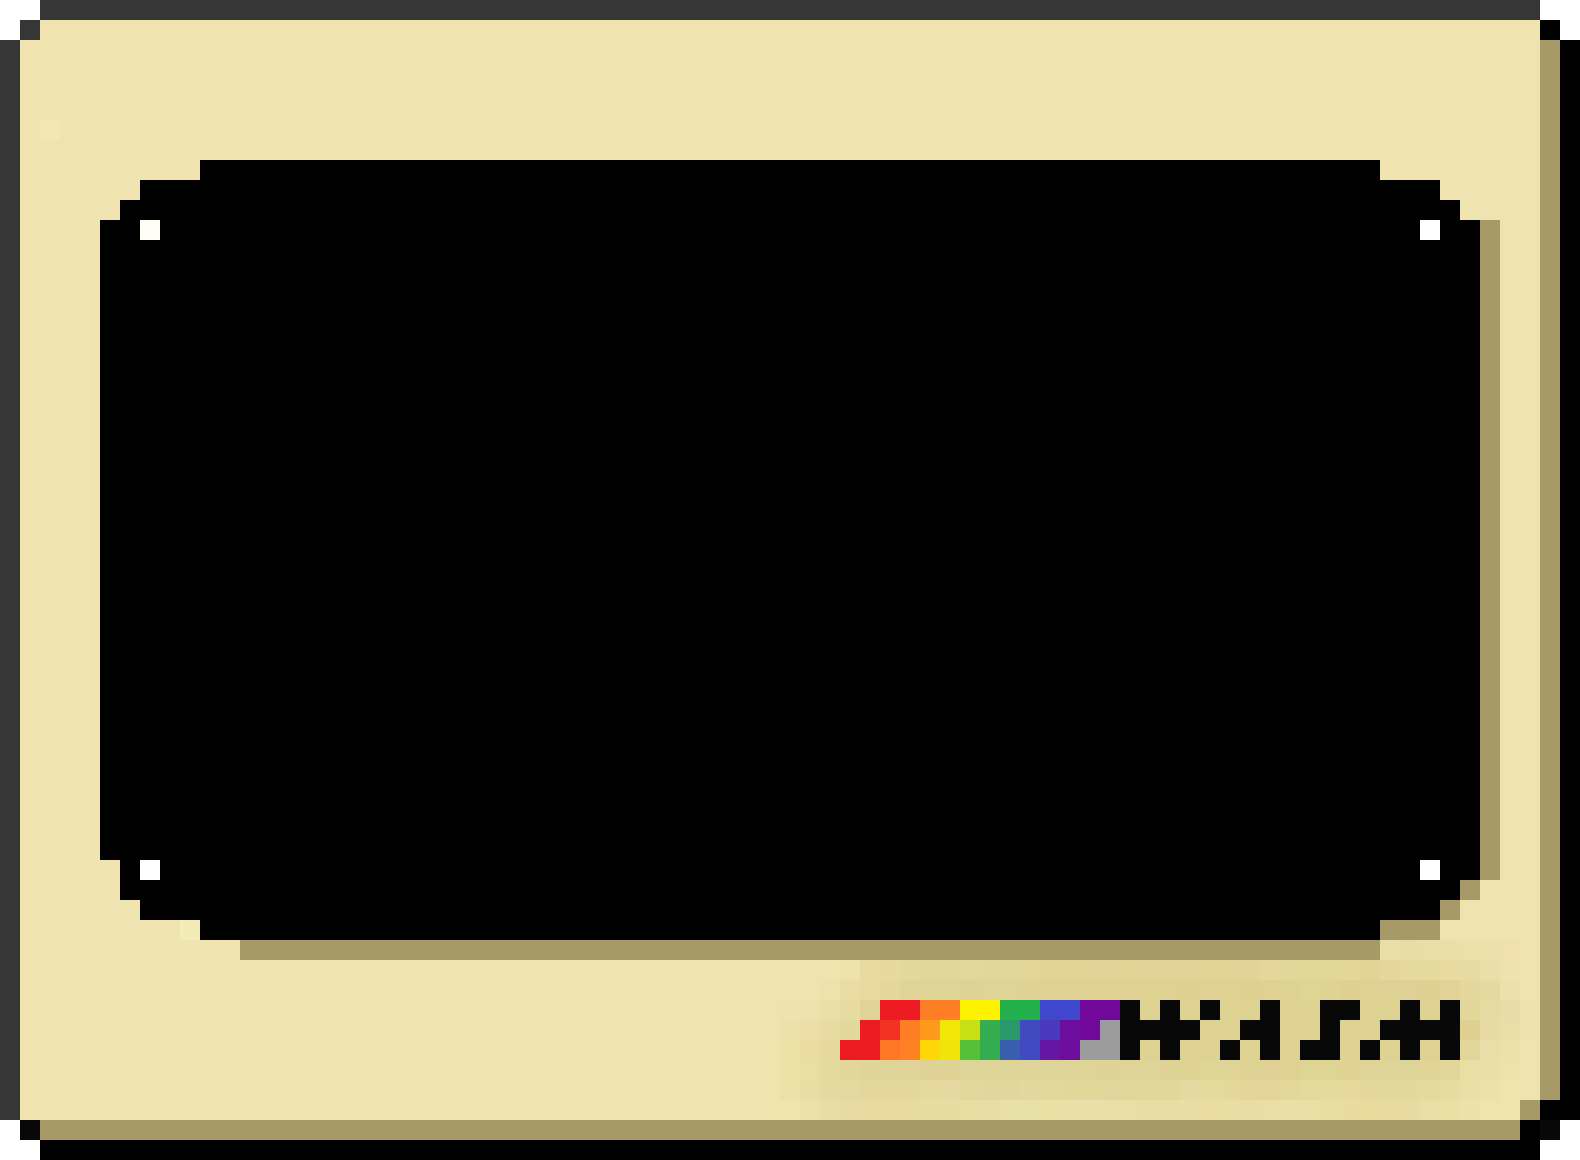
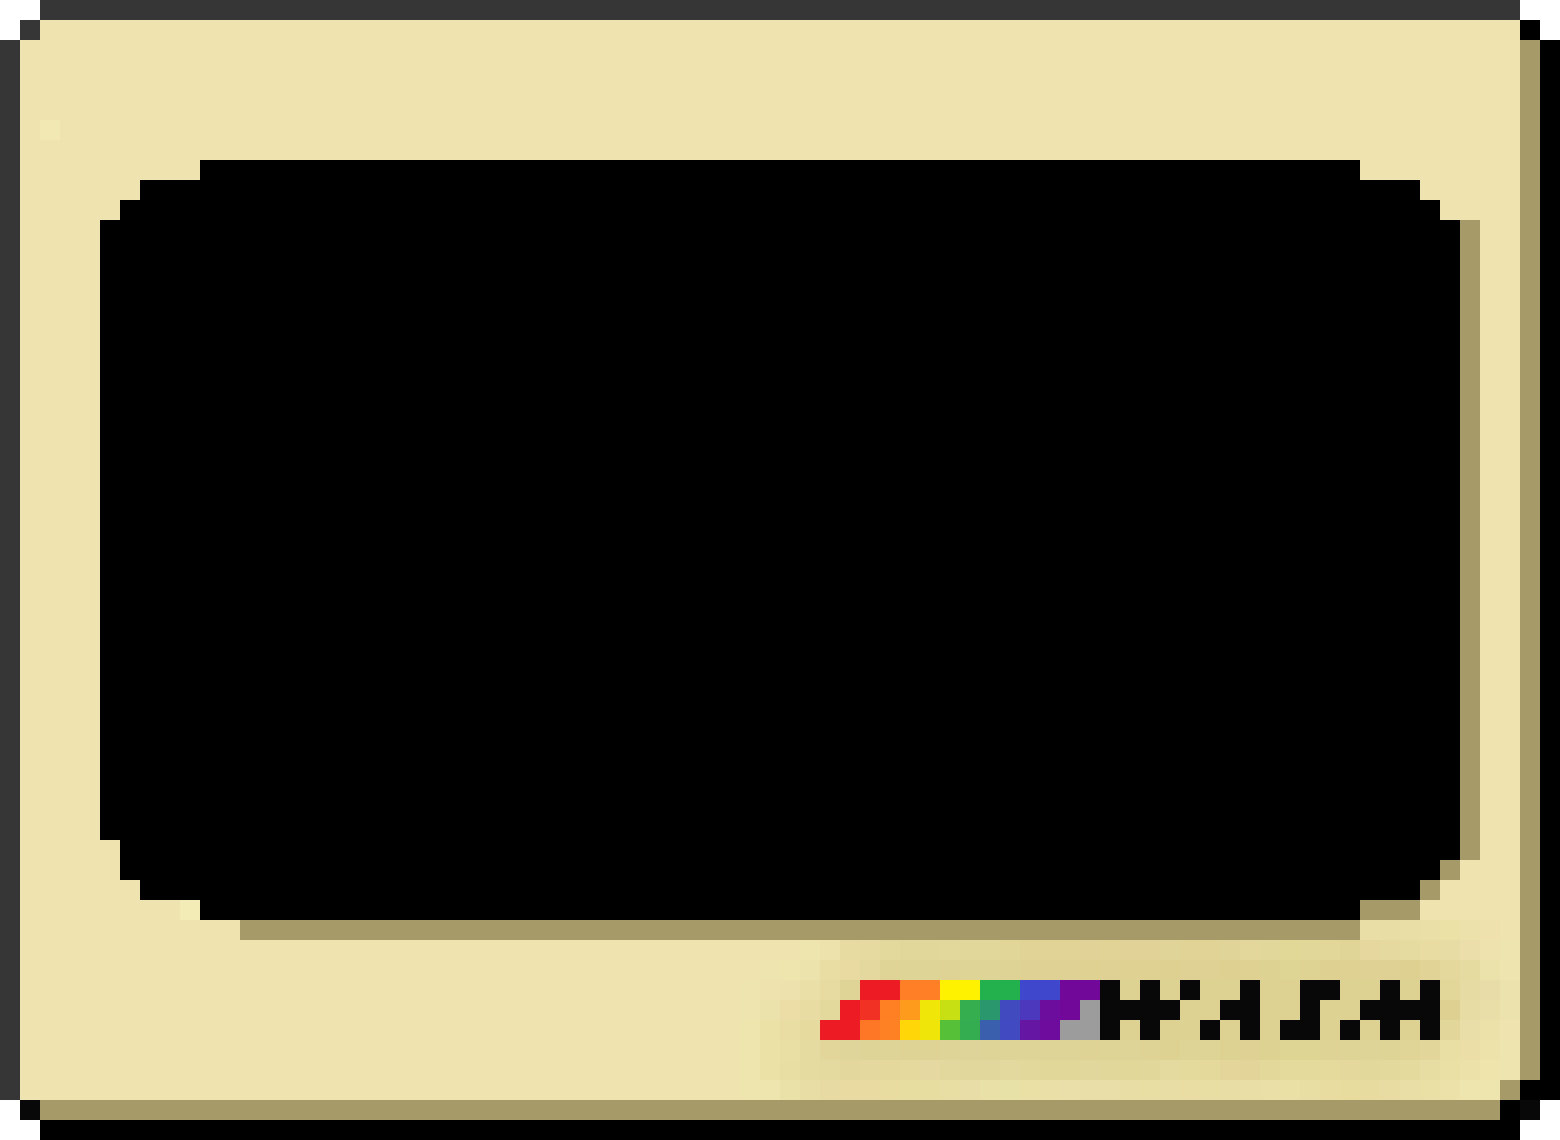
Get CHIP-8 IBM rom working

diff --git a/www/index.js b/www/index.js
@@ -1,13 +1,15 @@
 import { CPU } from "viper";
+import { memory } from "viper/viper_bg";
 
 // define some constants 
-const frameScale = 0.5;         // frame image scaling factor
-const frameRelativeSize = 0.8;  // frame size relative to window
-
+const FRAME_RELATIVE_SIZE = 0.8;  // frame size relative to window
+const PIXEL_SIZE = 20;            // px, size of each screen pixel in the canvas
+const SCREEN_START_X = 7;         // px 
+const SCREEN_START_Y = 11;        // px
 
 // define the canvas
 const canvas = document.getElementById("display-canvas");
-const context = canvas.getContext('2d');
+const ctx = canvas.getContext('2d');
 
 // fetch the image
 const frameImg = new Image();
@@ -16,15 +18,15 @@ frameImg.src = "img/frame.png";
 frameImg.onload = function (e)
 {
     // get frame image size 
-    const frameWidth = frameScale * frameImg.width;
-    const frameHeight = frameScale * frameImg.height;
+    const frameWidth = frameImg.width;
+    const frameHeight = frameImg.height;
 
     // set the internal width and height of canvas
     canvas.width = frameWidth;
     canvas.height = frameHeight;
 
     // scale the canvas element to take up the correct amount of the screen
-    const scale = frameRelativeSize * Math.min(
+    const scale = FRAME_RELATIVE_SIZE * Math.min(
         window.innerHeight / frameHeight, 
         window.innerWidth / frameWidth
     );
@@ -32,7 +34,7 @@ frameImg.onload = function (e)
     canvas.style.height = `${frameHeight * scale}px`;
 
     // finally, draw the frame
-    context.drawImage(frameImg, 0, 0, frameWidth, frameHeight);
+    ctx.drawImage(frameImg, 0, 0, frameWidth, frameHeight);
 }
 
 const cpu = CPU.new();
@@ -46,18 +48,65 @@ romSelector.addEventListener('change', (event) => {
     reader.onload = () => {
         const romData = new Uint8Array(reader.result);
         cpu.load(romData);
-        // requestAnimationFrame(renderLoop);
+        requestAnimationFrame(renderLoop);
     }
 
     reader.readAsArrayBuffer(romFile);
 });
 
-/*
+const displayWidth = cpu.display_width();
+const displayHeight = cpu.display_height();
+const pixelsPtr = cpu.display_pixels();
+const pixels = new Uint8Array(memory.buffer, pixelsPtr, displayWidth * displayHeight / 8);
+
+const pixelIsOn = (row, col, pixels) => {
+    const idx = row * displayWidth / 8 + Math.floor(col / 8);
+    console.log(`LOC: ${row} ${col}`)
+    console.log(`PIXEL: ${pixels[idx]}`);
+    const mask = 1 << (7 - col % 8);
+    console.log(`MASK: ${mask}`);
+    console.log(`RESULT: ${pixels[idx] & mask}`);
+    return (pixels[idx] & mask) != 0;
+}
+
 const renderLoop = () => {
-    emulatorDisplay.textContent = cpu.render()
     cpu.step();
+    ctx.beginPath();
+
+    ctx.fillStyle = "#FFFFFF";
+    for (let row = 0; row < displayHeight; row++) { 
+        for (let col = 0; col < displayWidth; col++) {
+            if (pixelIsOn(row, col, pixels)) {
+                console.log(`PIXEL at ${col}`);
+                ctx.fillRect((SCREEN_START_X + col) * PIXEL_SIZE, 
+                    (SCREEN_START_Y + row) * PIXEL_SIZE, 
+                    PIXEL_SIZE, 
+                    PIXEL_SIZE);
+            }
+        }
+    }
+
+    ctx.fillStyle = "#000000";
+    for (let row = 0; row < displayHeight; row++) {
+        for (let col = 0; col < displayWidth; col++) {
+            if (!pixelIsOn(row, col, pixels)) {
+                ctx.fillRect((SCREEN_START_X + col) * PIXEL_SIZE, 
+                    (SCREEN_START_Y + row) * PIXEL_SIZE, 
+                    PIXEL_SIZE, 
+                    PIXEL_SIZE);
+            }
+        }
+    }
+
+    ctx.stroke();
+
+    /* for (let row = 0; row < displayHeight; row++) {
+        for (let col = 0; col < displayWidth; col++) {
+            if pixelIsOn(row, col, displayPtr) {
+                ctx.
+            }
+        }
+    } */
 
     requestAnimationFrame(renderLoop);
 }
-
-*/

diff --git a/www/index.html b/www/index.html
@@ -20,9 +20,12 @@
         align-items: center;
         justify-content: center;
         background-image: url("img/bg.png");
-        background-size: 400px;
+        background-blend-mode: darken;
+        background-size: 300px;
         background-position: calc(100% - 150px) calc(100% - 150px); 
         background-repeat: repeat;
+        background-color: #ebdee8;
+        background-blend-mode: multiply;
       }
 
       canvas {
@@ -35,7 +38,7 @@
         width: 300px;
         height: 60px;
         border: none;
-        background-color: #efe4ad;
+        background-color: #dacf9b;
         border: 5px solid #a69b68;
         box-shadow: 5px 5px #363636;
         border-radius: 0px;
@@ -50,7 +53,7 @@
   <body>
     <canvas id="display-canvas"></canvas>
     <input type="file" id="rom-selector" style="display: none;"></input>
-    <button onclick="document.getElementById('rom-selector').click();">Load ROM</button>
+    <button onclick="document.getElementById('rom-selector').click();">Load New ROM</button>
     <script src="./bootstrap.js"></script>
   </body>
 </html>

diff --git a/src/lib.rs b/src/lib.rs
@@ -25,7 +25,7 @@ extern "C" {
 }
 
 #[wasm_bindgen]
-struct CPU {
+pub struct CPU {
     memory: [u8; MEM_SIZE],
     display: Display,
     pc: u16,
@@ -89,6 +89,18 @@ impl CPU {
         }
 
         disp_text
+    }
+
+    pub fn display_width(&self) -> u16{
+        DISP_WIDTH
+    }
+
+    pub fn display_height(&self) -> u16 {
+        DISP_HEIGHT
+    }
+
+    pub fn display_pixels(&self) -> *const u8 {
+        self.display.as_raw_slice().as_ptr()
     }
 
     fn handle_misc(&mut self, upper: u8, lower: u8) {
